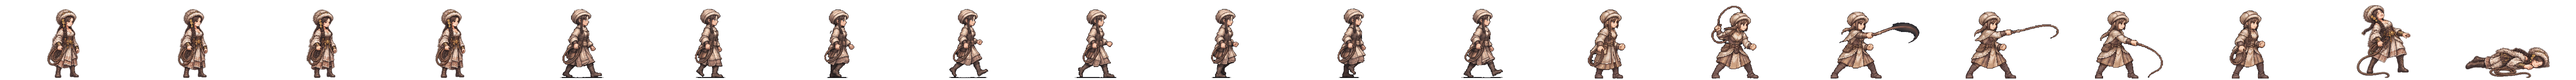
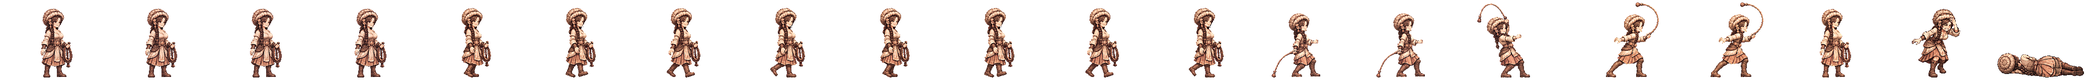
우가 누리 새 밧줄 띠를 게임에 넣음(휘두름 다시 받은 판: 반대 손 1~4/8 · 뒷발 ±1) · 칸 38 · 공격 칸 폭 288 · 걷기 뒤 절반을 앞 절반으로 · 파란 팔 이름 박기 판정 기록
Claude-Session: https://claude.ai/code/session_01TRiuN7s6aDfSnaHxrkctmU

diff --git a/src/realm/data/spritePx.ts b/src/realm/data/spritePx.ts
@@ -1,3 +1,3 @@
 /** public/realm/anim-px/manifest.json 의 사본 — tools/sprite-normalize.mjs 가 만든다 (손으로 고치지 말 것). 칸 [가로, 세로] · feet = 발 줄(칸 위에서 y) · bodyPx = 서 있는 몸 키 */
 import { expandManifest } from './sprite-manifest.ts'
-export const SPRITE_PX: Readonly<Record<string, { readonly cell: readonly [number, number]; readonly feet: number; readonly bodyPx: number; readonly kind: 'general' | 'soldier' | 'folk' | 'crowd'; readonly cells: number }>> = expandManifest<{ readonly cell: readonly [number, number]; readonly feet: number; readonly bodyPx: number; readonly kind: 'general' | 'soldier' | 'folk' | 'crowd'; readonly cells: number }>([{"cell":[166,128],"feet":126,"bodyPx":124,"kind":"soldier","cells":20},{"cell":[116,128],"feet":126,"bodyPx":117,"kind":"soldier","cells":20},{"cell":[127,128],"feet":126,"bodyPx":116,"kind":"soldier","cells":20},{"cell":[269,128],"feet":126,"bodyPx":126,"kind":"soldier","cells":20},{"cell":[503,128],"feet":126,"bodyPx":127,"kind":"soldier","cells":20},{"cell":[614,128],"feet":126,"bodyPx":126,"kind":"soldier","cells":20},{"cell":[200,160],"feet":156,"bodyPx":138,"kind":"general","cells":20},{"cell":[208,160],"feet":155,"bodyPx":138,"kind":"general","cells":20},{"cell":[208,160],"feet":154,"bodyPx":138,"kind":"general","cells":20},{"cell":[208,160],"feet":154,"bodyPx":135,"kind":"general","cells":20},{"cell":[184,160],"feet":156,"bodyPx":138,"kind":"general","cells":20},{"cell":[208,160],"feet":154,"bodyPx":136,"kind":"general","cells":20},{"cell":[208,160],"feet":156,"bodyPx":138,"kind":"general","cells":20},{"cell":[168,160],"feet":156,"bodyPx":124,"kind":"general","cells":20},{"cell":[216,160],"feet":156,"bodyPx":130,"kind":"general","cells":20},{"cell":[200,160],"feet":156,"bodyPx":116,"kind":"general","cells":20},{"cell":[192,160],"feet":156,"bodyPx":138,"kind":"general","cells":20},{"cell":[280,160],"feet":156,"bodyPx":138,"kind":"general","cells":20},{"cell":[232,160],"feet":156,"bodyPx":134,"kind":"general","cells":20},{"cell":[144,160],"feet":156,"bodyPx":70,"kind":"general","cells":20},{"cell":[208,160],"feet":156,"bodyPx":70,"kind":"general","cells":20},{"cell":[192,160],"feet":156,"bodyPx":70,"kind":"general","cells":20},{"cell":[240,160],"feet":155,"bodyPx":138,"kind":"general","cells":20},{"cell":[192,160],"feet":156,"bodyPx":128,"kind":"general","cells":20},{"cell":[232,160],"feet":156,"bodyPx":138,"kind":"general","cells":20},{"cell":[208,160],"feet":154,"bodyPx":137,"kind":"general","cells":20},{"cell":[208,160],"feet":154,"bodyPx":139,"kind":"general","cells":20},{"cell":[216,160],"feet":156,"bodyPx":138,"kind":"general","cells":20},{"cell":[208,160],"feet":156,"bodyPx":134,"kind":"general","cells":20},{"cell":[208,160],"feet":154,"bodyPx":130,"kind":"general","cells":20},{"cell":[248,160],"feet":156,"bodyPx":138,"kind":"general","cells":20},{"cell":[248,160],"feet":155,"bodyPx":138,"kind":"general","cells":20},{"cell":[192,160],"feet":155,"bodyPx":138,"kind":"general","cells":20},{"cell":[192,160],"feet":156,"bodyPx":124,"kind":"general","cells":20},{"cell":[208,160],"feet":154,"bodyPx":131,"kind":"general","cells":20},{"cell":[240,160],"feet":156,"bodyPx":138,"kind":"general","cells":20},{"cell":[232,160],"feet":156,"bodyPx":73,"kind":"general","cells":20},{"cell":[224,160],"feet":156,"bodyPx":138,"kind":"general","cells":20},{"cell":[224,160],"feet":156,"bodyPx":128,"kind":"general","cells":20},{"cell":[176,160],"feet":156,"bodyPx":129,"kind":"general","cells":20},{"cell":[232,160],"feet":155,"bodyPx":138,"kind":"general","cells":20},{"cell":[208,160],"feet":156,"bodyPx":132,"kind":"general","cells":20},{"cell":[184,160],"feet":156,"bodyPx":122,"kind":"general","cells":20},{"cell":[280,160],"feet":155,"bodyPx":133,"kind":"general","cells":20},{"cell":[176,160],"feet":156,"bodyPx":70,"kind":"general","cells":20},{"cell":[186,128],"feet":126,"bodyPx":127,"kind":"soldier","cells":20},{"cell":[298,128],"feet":126,"bodyPx":126,"kind":"soldier","cells":20},{"cell":[82,128],"feet":126,"bodyPx":114,"kind":"folk","cells":8},{"cell":[134,128],"feet":126,"bodyPx":119,"kind":"soldier","cells":20},{"cell":[380,128],"feet":126,"bodyPx":124,"kind":"soldier","cells":20},{"cell":[114,128],"feet":126,"bodyPx":115,"kind":"soldier","cells":20},{"cell":[122,128],"feet":126,"bodyPx":114,"kind":"soldier","cells":20},{"cell":[254,128],"feet":126,"bodyPx":128,"kind":"soldier","cells":20},{"cell":[438,128],"feet":126,"bodyPx":126,"kind":"soldier","cells":20},{"cell":[88,128],"feet":126,"bodyPx":113,"kind":"folk","cells":8},{"cell":[100,128],"feet":126,"bodyPx":115,"kind":"folk","cells":8},{"cell":[108,128],"feet":126,"bodyPx":115,"kind":"folk","cells":8},{"cell":[63,128],"feet":126,"bodyPx":113,"kind":"folk","cells":8},{"cell":[69,96],"feet":96,"bodyPx":96,"kind":"crowd","cells":1},{"cell":[54,96],"feet":96,"bodyPx":96,"kind":"crowd","cells":1},{"cell":[47,96],"feet":96,"bodyPx":96,"kind":"crowd","cells":1},{"cell":[49,96],"feet":96,"bodyPx":96,"kind":"crowd","cells":1},{"cell":[57,96],"feet":96,"bodyPx":96,"kind":"crowd","cells":1},{"cell":[55,96],"feet":96,"bodyPx":96,"kind":"crowd","cells":1},{"cell":[45,96],"feet":96,"bodyPx":96,"kind":"crowd","cells":1},{"cell":[53,96],"feet":96,"bodyPx":96,"kind":"crowd","cells":1},{"cell":[64,96],"feet":96,"bodyPx":96,"kind":"crowd","cells":1},{"cell":[264,160],"feet":156,"bodyPx":138,"kind":"general","cells":20},{"cell":[184,160],"feet":156,"bodyPx":124,"kind":"general","cells":20},{"cell":[256,160],"feet":156,"bodyPx":138,"kind":"general","cells":20},{"cell":[208,160],"feet":154,"bodyPx":134,"kind":"general","cells":20},{"cell":[224,160],"feet":156,"bodyPx":133,"kind":"general","cells":20},{"cell":[184,160],"feet":156,"bodyPx":137,"kind":"general","cells":20},{"cell":[176,160],"feet":156,"bodyPx":130,"kind":"general","cells":20},{"cell":[216,160],"feet":156,"bodyPx":134,"kind":"general","cells":20},{"cell":[216,160],"feet":156,"bodyPx":132,"kind":"general","cells":20},{"cell":[288,160],"feet":156,"bodyPx":138,"kind":"general","cells":20},{"cell":[192,160],"feet":156,"bodyPx":118,"kind":"general","cells":20},{"cell":[208,160],"feet":154,"bodyPx":132,"kind":"general","cells":20},{"cell":[208,160],"feet":154,"bodyPx":128,"kind":"general","cells":20},{"cell":[240,160],"feet":156,"bodyPx":128,"kind":"general","cells":20},{"cell":[184,160],"feet":156,"bodyPx":132,"kind":"general","cells":20},{"cell":[208,160],"feet":156,"bodyPx":123,"kind":"general","cells":20},{"cell":[192,160],"feet":156,"bodyPx":135,"kind":"general","cells":20},{"cell":[176,160],"feet":156,"bodyPx":116,"kind":"general","cells":20},{"cell":[272,160],"feet":156,"bodyPx":138,"kind":"general","cells":20},{"cell":[176,160],"feet":156,"bodyPx":138,"kind":"general","cells":20},{"cell":[176,160],"feet":156,"bodyPx":122,"kind":"general","cells":20},{"cell":[232,160],"feet":156,"bodyPx":127,"kind":"general","cells":20},{"cell":[184,160],"feet":156,"bodyPx":134,"kind":"general","cells":20},{"cell":[168,160],"feet":156,"bodyPx":138,"kind":"general","cells":20},{"cell":[176,160],"feet":156,"bodyPx":137,"kind":"general","cells":20},{"cell":[184,160],"feet":156,"bodyPx":133,"kind":"general","cells":20}],[["axe",0],["bandit-chief",1],["bandit-club",2],["boat",3],["bow",4],["crossbow",5],["gen-adogan",6],["gen-alpyeong",7],["gen-ara",8],["gen-areum",8],["gen-aryeong",9],["gen-bakdal",8],["gen-baram",8],["gen-bdanbi",10],["gen-beom",11],["gen-beombal",8],["gen-beomi",8],["gen-bira",8],["gen-biryu",12],["gen-budeul",8],["gen-byeol",8],["gen-daemusin",13],["gen-daeso",14],["gen-dallae2",8],["gen-dalli",8],["gen-damul",15],["gen-danbi",8],["gen-dangung",16],["gen-darae",9],["gen-dokmudeom",8],["gen-duman",17],["gen-eomni",8],["gen-eureum",18],["gen-g-bow",19],["gen-g-spear",20],["gen-g-sword",21],["gen-gaennae",8],["gen-gamsil",22],["gen-gaon",9],["gen-geota",12],["gen-geumbawi",10],["gen-geumha",23],["gen-goeun",8],["gen-gom",8],["gen-gomok",12],["gen-gureum",8],["gen-guryema",16],["gen-gwaeyu",24],["gen-haebi",8],["gen-haedal",6],["gen-haesol",8],["gen-halla",25],["gen-heo",8],["gen-hneoul",26],["gen-hogong",27],["gen-hojin",12],["gen-horselord",28],["gen-hwalmi",29],["gen-hyeokgeose",16],["gen-hyeopbo",6],["gen-irang",8],["gen-jibaekho",30],["gen-jinha",31],["gen-jita",32],["gen-jumong",33],["gen-keundol",7],["gen-maehwa",34],["gen-maenun",16],["gen-malgalgi",8],["gen-mari",35],["gen-maro",30],["gen-maryeo",12],["gen-mdallae",8],["gen-mir",8],["gen-mount",36],["gen-mulbeom",25],["gen-mulsae",25],["gen-musoe",27],["gen-noeul",8],["gen-nuri",8],["gen-ocheongan",37],["gen-odi",8],["gen-odogan",6],["gen-ogan",16],["gen-oi",38],["gen-olddaeso",18],["gen-onjo",39],["gen-pidogan",12],["gen-sagong",26],["gen-sdallae",8],["gen-sincheongan",8],["gen-singwigan",27],["gen-sinneoul",8],["gen-sobeol",40],["gen-soebi",8],["gen-soebo",41],["gen-soenun",26],["gen-sogeumbi",25],["gen-songbi",8],["gen-songyang",42],["gen-sori",8],["gen-soseono",43],["gen-suro",16],["gen-tahae",6],["gen-tneoul",8],["gen-w-bow",19],["gen-w-spear",44],["gen-waechief",12],["gen-wan",27],["gen-yeodogan",12],["gen-yucheongan",8],["gen-yusugan",30],["horse",45],["marine",46],["migrant",47],["militia",48],["pike",49],["pirate-captain",50],["pirate-sword",51],["shield",52],["spear",53],["villager-builder",54],["villager-farmer",55],["villager-porter",56],["villager-woman",57],["crowd-b1",58],["crowd-b2",59],["crowd-b3",60],["crowd-b4",61],["crowd-b5",62],["crowd-b6",63],["crowd-f1",58],["crowd-f2",63],["crowd-f3",64],["crowd-f4",65],["crowd-f5",58],["crowd-f6",66],["gen-dalbit",12],["gen-base-g-07-drunk-warrior",16],["gen-base-g-40-anya-adan",12],["gen-base-w-13-young-archer",8],["gen-base-g-03-sea-trader",35],["gen-base-w-10-pirate-captain",26],["gen-base-w-64-miri-dallae",26],["gen-base-g-41-goja-bau",35],["gen-base-g-42-dokro-garam",67],["gen-base-g-09-farmer-conscript",27],["gen-base-w-02-goguryeo-lady",8],["gen-base-w-17-mahan-pearl-diver",8],["gen-base-g-17-saro-isageum",41],["gen-base-g-18-daegaya-king",68],["gen-base-g-35-dabeol-dalgu",12],["gen-base-g-19-sabeol-veteran",27],["gen-base-w-23-usisan-whale-queen",8],["gen-base-g-36-gammun-gamdol",37],["gen-base-g-20-samul-sea-lord",69],["gen-base-g-37-eumjeup-jeup",10],["gen-base-g-38-chopal-palmae",16],["gen-base-w-75-daegaya-soemoe",8],["gen-base-g-45-dabeol-deulgae",10],["gen-base-g-04-jinhan-giant",12],["gen-base-g-08-veteran",12],["gen-base-w-18-jinhan-salt-widow",8],["gen-base-w-12-court-dancer",70],["gen-base-w-83-gyeonji-beodeul",71],["gen-base-w-05-baekje-queen",9],["gen-base-w-21-baekje-court-dancer",10],["gen-base-g-01-master-smith",72],["gen-base-g-93-jomun-solgae",73],["gen-base-g-57-bihwa-neup",35],["gen-base-w-72-eumjeup-beol",8],["gen-base-w-102-garak-dana",26],["gen-base-g-68-baekje-onnuri",12],["gen-base-w-27-mokji-jinha",25],["gen-base-g-22-ungcheon-gomnae",6],["gen-base-g-23-sangdang-soedal",12],["gen-base-g-24-wansan-onsan",6],["gen-base-g-25-balla-keunmoe",27],["gen-base-g-61-heomcheuk-bawi",27],["gen-base-g-88-wander-soeul",37],["gen-base-w-14-feast-spy",8],["gen-base-g-12-silla-youth",74],["gen-base-w-08-mahan-warrior",8],["gen-base-g-62-beonye-hanul",35],["gen-base-g-63-heomcheuk-beogeum",12],["gen-base-g-84-wander-seoneul",12],["gen-base-w-50-siljik-mulga",27],["gen-base-g-46-uga-nureongso",27],["gen-base-w-80-usan-gangchi",26],["gen-base-g-47-guga-sanyanggae",27],["gen-base-w-76-gampyeong-baetsagong",8],["gen-base-g-05-mahan-chieftain",75],["gen-base-g-58-usan-uhae",12],["gen-base-g-27-maek-maekdol",12],["gen-base-w-53-hwanna-gabi",26],["gen-base-w-29-golpo-janmul",8],["gen-base-g-53-baekje-haeru",6],["gen-base-w-71-yeonna-neoul",8],["gen-base-w-79-yangmaek-solmae",8],["gen-base-w-34-chopal-deulme",8],["gen-base-g-44-maga-malgup",76],["gen-base-w-31-dabeol-dalbit",26],["gen-base-g-51-biryuna-mulgyeol",37],["gen-base-g-48-gwanna-musoe",12],["gen-base-g-32-uga-sodu",24],["gen-base-g-49-goguryeo-sona",77],["gen-base-g-30-gwanna-soemoe",37],["gen-base-g-52-tamna-oreum",10],["gen-base-g-29-yeonna-myeongsol",33],["gen-base-w-56-dongokjeo-sogeum",70],["gen-base-g-54-mokji-mahan",24],["gen-base-g-33-jeoga-metdol",16],["gen-base-w-36-baekje-maena",8],["gen-base-w-38-sangdang-bulmae",26],["gen-base-w-39-gosaburi-galmae",8],["gen-base-w-40-mujin-munui",78],["gen-base-w-41-hwanna-beodeul",79],["gen-base-w-43-uga-nuri",69],["gen-base-w-45-tamna-oreumbi",10],["gen-base-g-60-golbeol-golgae",10],["gen-base-g-61-apdok-ap",27],["gen-base-g-62-gammun-gamnamu",6],["gen-base-g-63-chopal-yeoul",30],["gen-base-g-64-michuhol-sogeumkkun",35],["gen-base-g-65-sangdang-soemangchi",37],["gen-base-g-66-geonma-malbalgup",80],["gen-base-g-67-gosaburi-buri",81],["gen-base-g-68-mujin-bitgoeul",10],["gen-base-g-69-goryong-yong",37],["gen-base-g-70-siljik-pado",35],["gen-base-w-81-byeokjin-byeolbit",8],["gen-base-w-46-geonma-maru",8],["gen-base-w-48-mujin-mudeung",8],["gen-base-g-26-gampyeong-gaetbeol",24],["gen-base-g-60-eupcha-hangyeol",82],["gen-base-g-15-shaman-man",27],["gen-base-g-85-wander-ure",30],["gen-base-g-43-hwanna-amnok",12],["gen-base-g-50-bullae-gwaha",83],["gen-base-g-55-saro-bakdal",12],["gen-base-g-56-haseulla-gwahama",6],["gen-base-w-06-buyeo-huntress",25],["gen-base-w-22-dongye-tiger-huntress",8],["gen-base-w-25-bihwa-priestess",8],["gen-base-w-24-apdok-queen",8],["gen-base-w-61-iseo-sinae",8],["gen-base-w-26-iseo-tomboy-general",8],["gen-base-g-59-yangmaek-maekson",84],["gen-aw1-haebi",37],["gen-aw1-soseono",85],["gen-aw1-gamsil",10],["gen-aw1-mir",86],["gen-aw1-dangung",6],["gen-aw1-ara",37],["gen-aw1-jumong",87],["gen-aw1-onjo",88],["gen-aw1-base-w-83-gyeonji-beodeul",16],["gen-aw1-heo",67],["gen-aw1-base-g-38-chopal-palmae",6],["gen-aw1-base-w-25-bihwa-priestess",89],["gen-aw1-sori",90],["gen-aw1-gomok",6],["gen-aw1-irang",16],["gen-aw1-budeul",90],["gen-aw1-gom",35],["gen-aw1-sdallae",6],["gen-aw1-base-w-13-young-archer",6],["gen-aw1-base-w-36-baekje-maena",91],["gen-aw1-base-g-09-farmer-conscript",67],["gen-aw1-base-w-02-goguryeo-lady",92],["gen-aw1-haedal",10],["gen-aw1-hogong",6],["gen-aw1-maehwa",86],["gen-aw1-base-w-06-buyeo-huntress",24],["gen-aw1-base-w-08-mahan-warrior",37],["gen-aw1-base-w-29-golpo-janmul",37],["gen-aw1-base-w-31-dabeol-dalbit",16],["gen-aw1-base-w-38-sangdang-bulmae",90],["gen-aw1-bira",27],["gen-aw1-base-w-53-hwanna-gabi",90],["gen-aw1-base-w-56-dongokjeo-sogeum",86],["gen-aw1-base-w-72-eumjeup-beol",16],["gen-aw1-bdanbi",90],["gen-aw1-beom",10],["gen-aw1-beombal",10],["gen-aw1-byeol",16],["gen-aw1-dalli",86],["gen-aw1-malgalgi",30],["gen-aw1-sincheongan",27]])
+export const SPRITE_PX: Readonly<Record<string, { readonly cell: readonly [number, number]; readonly feet: number; readonly bodyPx: number; readonly kind: 'general' | 'soldier' | 'folk' | 'crowd'; readonly cells: number }>> = expandManifest<{ readonly cell: readonly [number, number]; readonly feet: number; readonly bodyPx: number; readonly kind: 'general' | 'soldier' | 'folk' | 'crowd'; readonly cells: number }>([{"cell":[166,128],"feet":126,"bodyPx":124,"kind":"soldier","cells":20},{"cell":[116,128],"feet":126,"bodyPx":117,"kind":"soldier","cells":20},{"cell":[127,128],"feet":126,"bodyPx":116,"kind":"soldier","cells":20},{"cell":[269,128],"feet":126,"bodyPx":126,"kind":"soldier","cells":20},{"cell":[503,128],"feet":126,"bodyPx":127,"kind":"soldier","cells":20},{"cell":[614,128],"feet":126,"bodyPx":126,"kind":"soldier","cells":20},{"cell":[200,160],"feet":156,"bodyPx":138,"kind":"general","cells":20},{"cell":[208,160],"feet":155,"bodyPx":138,"kind":"general","cells":20},{"cell":[208,160],"feet":154,"bodyPx":138,"kind":"general","cells":20},{"cell":[208,160],"feet":154,"bodyPx":135,"kind":"general","cells":20},{"cell":[184,160],"feet":156,"bodyPx":138,"kind":"general","cells":20},{"cell":[208,160],"feet":154,"bodyPx":136,"kind":"general","cells":20},{"cell":[208,160],"feet":156,"bodyPx":138,"kind":"general","cells":20},{"cell":[168,160],"feet":156,"bodyPx":124,"kind":"general","cells":20},{"cell":[216,160],"feet":156,"bodyPx":130,"kind":"general","cells":20},{"cell":[200,160],"feet":156,"bodyPx":116,"kind":"general","cells":20},{"cell":[192,160],"feet":156,"bodyPx":138,"kind":"general","cells":20},{"cell":[280,160],"feet":156,"bodyPx":138,"kind":"general","cells":20},{"cell":[232,160],"feet":156,"bodyPx":134,"kind":"general","cells":20},{"cell":[144,160],"feet":156,"bodyPx":70,"kind":"general","cells":20},{"cell":[208,160],"feet":156,"bodyPx":70,"kind":"general","cells":20},{"cell":[192,160],"feet":156,"bodyPx":70,"kind":"general","cells":20},{"cell":[240,160],"feet":155,"bodyPx":138,"kind":"general","cells":20},{"cell":[192,160],"feet":156,"bodyPx":128,"kind":"general","cells":20},{"cell":[232,160],"feet":156,"bodyPx":138,"kind":"general","cells":20},{"cell":[208,160],"feet":154,"bodyPx":137,"kind":"general","cells":20},{"cell":[208,160],"feet":154,"bodyPx":139,"kind":"general","cells":20},{"cell":[216,160],"feet":156,"bodyPx":138,"kind":"general","cells":20},{"cell":[208,160],"feet":156,"bodyPx":134,"kind":"general","cells":20},{"cell":[208,160],"feet":154,"bodyPx":130,"kind":"general","cells":20},{"cell":[248,160],"feet":156,"bodyPx":138,"kind":"general","cells":20},{"cell":[248,160],"feet":155,"bodyPx":138,"kind":"general","cells":20},{"cell":[192,160],"feet":155,"bodyPx":138,"kind":"general","cells":20},{"cell":[192,160],"feet":156,"bodyPx":124,"kind":"general","cells":20},{"cell":[208,160],"feet":154,"bodyPx":131,"kind":"general","cells":20},{"cell":[240,160],"feet":156,"bodyPx":138,"kind":"general","cells":20},{"cell":[232,160],"feet":156,"bodyPx":73,"kind":"general","cells":20},{"cell":[224,160],"feet":156,"bodyPx":138,"kind":"general","cells":20},{"cell":[224,160],"feet":156,"bodyPx":128,"kind":"general","cells":20},{"cell":[176,160],"feet":156,"bodyPx":129,"kind":"general","cells":20},{"cell":[232,160],"feet":155,"bodyPx":138,"kind":"general","cells":20},{"cell":[208,160],"feet":156,"bodyPx":132,"kind":"general","cells":20},{"cell":[184,160],"feet":156,"bodyPx":122,"kind":"general","cells":20},{"cell":[280,160],"feet":155,"bodyPx":133,"kind":"general","cells":20},{"cell":[176,160],"feet":156,"bodyPx":70,"kind":"general","cells":20},{"cell":[186,128],"feet":126,"bodyPx":127,"kind":"soldier","cells":20},{"cell":[298,128],"feet":126,"bodyPx":126,"kind":"soldier","cells":20},{"cell":[82,128],"feet":126,"bodyPx":114,"kind":"folk","cells":8},{"cell":[134,128],"feet":126,"bodyPx":119,"kind":"soldier","cells":20},{"cell":[380,128],"feet":126,"bodyPx":124,"kind":"soldier","cells":20},{"cell":[114,128],"feet":126,"bodyPx":115,"kind":"soldier","cells":20},{"cell":[122,128],"feet":126,"bodyPx":114,"kind":"soldier","cells":20},{"cell":[254,128],"feet":126,"bodyPx":128,"kind":"soldier","cells":20},{"cell":[438,128],"feet":126,"bodyPx":126,"kind":"soldier","cells":20},{"cell":[88,128],"feet":126,"bodyPx":113,"kind":"folk","cells":8},{"cell":[100,128],"feet":126,"bodyPx":115,"kind":"folk","cells":8},{"cell":[108,128],"feet":126,"bodyPx":115,"kind":"folk","cells":8},{"cell":[63,128],"feet":126,"bodyPx":113,"kind":"folk","cells":8},{"cell":[69,96],"feet":96,"bodyPx":96,"kind":"crowd","cells":1},{"cell":[54,96],"feet":96,"bodyPx":96,"kind":"crowd","cells":1},{"cell":[47,96],"feet":96,"bodyPx":96,"kind":"crowd","cells":1},{"cell":[49,96],"feet":96,"bodyPx":96,"kind":"crowd","cells":1},{"cell":[57,96],"feet":96,"bodyPx":96,"kind":"crowd","cells":1},{"cell":[55,96],"feet":96,"bodyPx":96,"kind":"crowd","cells":1},{"cell":[45,96],"feet":96,"bodyPx":96,"kind":"crowd","cells":1},{"cell":[53,96],"feet":96,"bodyPx":96,"kind":"crowd","cells":1},{"cell":[64,96],"feet":96,"bodyPx":96,"kind":"crowd","cells":1},{"cell":[264,160],"feet":156,"bodyPx":138,"kind":"general","cells":20},{"cell":[184,160],"feet":156,"bodyPx":124,"kind":"general","cells":20},{"cell":[256,160],"feet":156,"bodyPx":138,"kind":"general","cells":20},{"cell":[208,160],"feet":154,"bodyPx":134,"kind":"general","cells":20},{"cell":[224,160],"feet":156,"bodyPx":133,"kind":"general","cells":20},{"cell":[184,160],"feet":156,"bodyPx":137,"kind":"general","cells":20},{"cell":[176,160],"feet":156,"bodyPx":130,"kind":"general","cells":20},{"cell":[216,160],"feet":156,"bodyPx":134,"kind":"general","cells":20},{"cell":[216,160],"feet":156,"bodyPx":132,"kind":"general","cells":20},{"cell":[288,160],"feet":156,"bodyPx":138,"kind":"general","cells":20},{"cell":[192,160],"feet":156,"bodyPx":118,"kind":"general","cells":20},{"cell":[208,160],"feet":154,"bodyPx":132,"kind":"general","cells":20},{"cell":[208,160],"feet":154,"bodyPx":128,"kind":"general","cells":20},{"cell":[240,160],"feet":156,"bodyPx":128,"kind":"general","cells":20},{"cell":[184,160],"feet":156,"bodyPx":132,"kind":"general","cells":20},{"cell":[208,160],"feet":156,"bodyPx":123,"kind":"general","cells":20},{"cell":[192,160],"feet":156,"bodyPx":135,"kind":"general","cells":20},{"cell":[176,160],"feet":156,"bodyPx":116,"kind":"general","cells":20},{"cell":[272,160],"feet":156,"bodyPx":138,"kind":"general","cells":20},{"cell":[176,160],"feet":156,"bodyPx":138,"kind":"general","cells":20},{"cell":[176,160],"feet":156,"bodyPx":122,"kind":"general","cells":20},{"cell":[232,160],"feet":156,"bodyPx":127,"kind":"general","cells":20},{"cell":[184,160],"feet":156,"bodyPx":134,"kind":"general","cells":20},{"cell":[168,160],"feet":156,"bodyPx":138,"kind":"general","cells":20},{"cell":[176,160],"feet":156,"bodyPx":137,"kind":"general","cells":20},{"cell":[184,160],"feet":156,"bodyPx":133,"kind":"general","cells":20}],[["axe",0],["bandit-chief",1],["bandit-club",2],["boat",3],["bow",4],["crossbow",5],["gen-adogan",6],["gen-alpyeong",7],["gen-ara",8],["gen-areum",8],["gen-aryeong",9],["gen-bakdal",8],["gen-baram",8],["gen-bdanbi",10],["gen-beom",11],["gen-beombal",8],["gen-beomi",8],["gen-bira",8],["gen-biryu",12],["gen-budeul",8],["gen-byeol",8],["gen-daemusin",13],["gen-daeso",14],["gen-dallae2",8],["gen-dalli",8],["gen-damul",15],["gen-danbi",8],["gen-dangung",16],["gen-darae",9],["gen-dokmudeom",8],["gen-duman",17],["gen-eomni",8],["gen-eureum",18],["gen-g-bow",19],["gen-g-spear",20],["gen-g-sword",21],["gen-gaennae",8],["gen-gamsil",22],["gen-gaon",9],["gen-geota",12],["gen-geumbawi",10],["gen-geumha",23],["gen-goeun",8],["gen-gom",8],["gen-gomok",12],["gen-gureum",8],["gen-guryema",16],["gen-gwaeyu",24],["gen-haebi",8],["gen-haedal",6],["gen-haesol",8],["gen-halla",25],["gen-heo",8],["gen-hneoul",26],["gen-hogong",27],["gen-hojin",12],["gen-horselord",28],["gen-hwalmi",29],["gen-hyeokgeose",16],["gen-hyeopbo",6],["gen-irang",8],["gen-jibaekho",30],["gen-jinha",31],["gen-jita",32],["gen-jumong",33],["gen-keundol",7],["gen-maehwa",34],["gen-maenun",16],["gen-malgalgi",8],["gen-mari",35],["gen-maro",30],["gen-maryeo",12],["gen-mdallae",8],["gen-mir",8],["gen-mount",36],["gen-mulbeom",25],["gen-mulsae",25],["gen-musoe",27],["gen-noeul",8],["gen-nuri",8],["gen-ocheongan",37],["gen-odi",8],["gen-odogan",6],["gen-ogan",16],["gen-oi",38],["gen-olddaeso",18],["gen-onjo",39],["gen-pidogan",12],["gen-sagong",26],["gen-sdallae",8],["gen-sincheongan",8],["gen-singwigan",27],["gen-sinneoul",8],["gen-sobeol",40],["gen-soebi",8],["gen-soebo",41],["gen-soenun",26],["gen-sogeumbi",25],["gen-songbi",8],["gen-songyang",42],["gen-sori",8],["gen-soseono",43],["gen-suro",16],["gen-tahae",6],["gen-tneoul",8],["gen-w-bow",19],["gen-w-spear",44],["gen-waechief",12],["gen-wan",27],["gen-yeodogan",12],["gen-yucheongan",8],["gen-yusugan",30],["horse",45],["marine",46],["migrant",47],["militia",48],["pike",49],["pirate-captain",50],["pirate-sword",51],["shield",52],["spear",53],["villager-builder",54],["villager-farmer",55],["villager-porter",56],["villager-woman",57],["crowd-b1",58],["crowd-b2",59],["crowd-b3",60],["crowd-b4",61],["crowd-b5",62],["crowd-b6",63],["crowd-f1",58],["crowd-f2",63],["crowd-f3",64],["crowd-f4",65],["crowd-f5",58],["crowd-f6",66],["gen-dalbit",12],["gen-base-g-07-drunk-warrior",16],["gen-base-g-40-anya-adan",12],["gen-base-w-13-young-archer",8],["gen-base-g-03-sea-trader",35],["gen-base-w-10-pirate-captain",26],["gen-base-w-64-miri-dallae",26],["gen-base-g-41-goja-bau",35],["gen-base-g-42-dokro-garam",67],["gen-base-g-09-farmer-conscript",27],["gen-base-w-02-goguryeo-lady",8],["gen-base-w-17-mahan-pearl-diver",8],["gen-base-g-17-saro-isageum",41],["gen-base-g-18-daegaya-king",68],["gen-base-g-35-dabeol-dalgu",12],["gen-base-g-19-sabeol-veteran",27],["gen-base-w-23-usisan-whale-queen",8],["gen-base-g-36-gammun-gamdol",37],["gen-base-g-20-samul-sea-lord",69],["gen-base-g-37-eumjeup-jeup",10],["gen-base-g-38-chopal-palmae",16],["gen-base-w-75-daegaya-soemoe",8],["gen-base-g-45-dabeol-deulgae",10],["gen-base-g-04-jinhan-giant",12],["gen-base-g-08-veteran",12],["gen-base-w-18-jinhan-salt-widow",8],["gen-base-w-12-court-dancer",70],["gen-base-w-83-gyeonji-beodeul",71],["gen-base-w-05-baekje-queen",9],["gen-base-w-21-baekje-court-dancer",10],["gen-base-g-01-master-smith",72],["gen-base-g-93-jomun-solgae",73],["gen-base-g-57-bihwa-neup",35],["gen-base-w-72-eumjeup-beol",8],["gen-base-w-102-garak-dana",26],["gen-base-g-68-baekje-onnuri",12],["gen-base-w-27-mokji-jinha",25],["gen-base-g-22-ungcheon-gomnae",6],["gen-base-g-23-sangdang-soedal",12],["gen-base-g-24-wansan-onsan",6],["gen-base-g-25-balla-keunmoe",27],["gen-base-g-61-heomcheuk-bawi",27],["gen-base-g-88-wander-soeul",37],["gen-base-w-14-feast-spy",8],["gen-base-g-12-silla-youth",74],["gen-base-w-08-mahan-warrior",8],["gen-base-g-62-beonye-hanul",35],["gen-base-g-63-heomcheuk-beogeum",12],["gen-base-g-84-wander-seoneul",12],["gen-base-w-50-siljik-mulga",27],["gen-base-g-46-uga-nureongso",27],["gen-base-w-80-usan-gangchi",26],["gen-base-g-47-guga-sanyanggae",27],["gen-base-w-76-gampyeong-baetsagong",8],["gen-base-g-05-mahan-chieftain",75],["gen-base-g-58-usan-uhae",12],["gen-base-g-27-maek-maekdol",12],["gen-base-w-53-hwanna-gabi",26],["gen-base-w-29-golpo-janmul",8],["gen-base-g-53-baekje-haeru",6],["gen-base-w-71-yeonna-neoul",8],["gen-base-w-79-yangmaek-solmae",8],["gen-base-w-34-chopal-deulme",8],["gen-base-g-44-maga-malgup",76],["gen-base-w-31-dabeol-dalbit",26],["gen-base-g-51-biryuna-mulgyeol",37],["gen-base-g-48-gwanna-musoe",12],["gen-base-g-32-uga-sodu",24],["gen-base-g-49-goguryeo-sona",77],["gen-base-g-30-gwanna-soemoe",37],["gen-base-g-52-tamna-oreum",10],["gen-base-g-29-yeonna-myeongsol",33],["gen-base-w-56-dongokjeo-sogeum",70],["gen-base-g-54-mokji-mahan",24],["gen-base-g-33-jeoga-metdol",16],["gen-base-w-36-baekje-maena",8],["gen-base-w-38-sangdang-bulmae",26],["gen-base-w-39-gosaburi-galmae",8],["gen-base-w-40-mujin-munui",78],["gen-base-w-41-hwanna-beodeul",79],["gen-base-w-43-uga-nuri",8],["gen-base-w-45-tamna-oreumbi",10],["gen-base-g-60-golbeol-golgae",10],["gen-base-g-61-apdok-ap",27],["gen-base-g-62-gammun-gamnamu",6],["gen-base-g-63-chopal-yeoul",30],["gen-base-g-64-michuhol-sogeumkkun",35],["gen-base-g-65-sangdang-soemangchi",37],["gen-base-g-66-geonma-malbalgup",80],["gen-base-g-67-gosaburi-buri",81],["gen-base-g-68-mujin-bitgoeul",10],["gen-base-g-69-goryong-yong",37],["gen-base-g-70-siljik-pado",35],["gen-base-w-81-byeokjin-byeolbit",8],["gen-base-w-46-geonma-maru",8],["gen-base-w-48-mujin-mudeung",8],["gen-base-g-26-gampyeong-gaetbeol",24],["gen-base-g-60-eupcha-hangyeol",82],["gen-base-g-15-shaman-man",27],["gen-base-g-85-wander-ure",30],["gen-base-g-43-hwanna-amnok",12],["gen-base-g-50-bullae-gwaha",83],["gen-base-g-55-saro-bakdal",12],["gen-base-g-56-haseulla-gwahama",6],["gen-base-w-06-buyeo-huntress",25],["gen-base-w-22-dongye-tiger-huntress",8],["gen-base-w-25-bihwa-priestess",8],["gen-base-w-24-apdok-queen",8],["gen-base-w-61-iseo-sinae",8],["gen-base-w-26-iseo-tomboy-general",8],["gen-base-g-59-yangmaek-maekson",84],["gen-aw1-haebi",37],["gen-aw1-soseono",85],["gen-aw1-gamsil",10],["gen-aw1-mir",86],["gen-aw1-dangung",6],["gen-aw1-ara",37],["gen-aw1-jumong",87],["gen-aw1-onjo",88],["gen-aw1-base-w-83-gyeonji-beodeul",16],["gen-aw1-heo",67],["gen-aw1-base-g-38-chopal-palmae",6],["gen-aw1-base-w-25-bihwa-priestess",89],["gen-aw1-sori",90],["gen-aw1-gomok",6],["gen-aw1-irang",16],["gen-aw1-budeul",90],["gen-aw1-gom",35],["gen-aw1-sdallae",6],["gen-aw1-base-w-13-young-archer",6],["gen-aw1-base-w-36-baekje-maena",91],["gen-aw1-base-g-09-farmer-conscript",67],["gen-aw1-base-w-02-goguryeo-lady",92],["gen-aw1-haedal",10],["gen-aw1-hogong",6],["gen-aw1-maehwa",86],["gen-aw1-base-w-06-buyeo-huntress",24],["gen-aw1-base-w-08-mahan-warrior",37],["gen-aw1-base-w-29-golpo-janmul",37],["gen-aw1-base-w-31-dabeol-dalbit",16],["gen-aw1-base-w-38-sangdang-bulmae",90],["gen-aw1-bira",27],["gen-aw1-base-w-53-hwanna-gabi",90],["gen-aw1-base-w-56-dongokjeo-sogeum",86],["gen-aw1-base-w-72-eumjeup-beol",16],["gen-aw1-bdanbi",90],["gen-aw1-beom",10],["gen-aw1-beombal",10],["gen-aw1-byeol",16],["gen-aw1-dalli",86],["gen-aw1-malgalgi",30],["gen-aw1-sincheongan",27]])

diff --git a/src/duel/view.ts b/src/duel/view.ts
@@ -100,7 +100,7 @@ const crowdFront = [1, 2, 3, 4, 5, 6].map((i) => img(`realm/duel/crowd/b${i}.png
 const crowdReady = (set: HTMLImageElement[]): boolean => set.every((im) => im.complete && im.naturalWidth > 0)
 const pxMode = cfg.px !== false && params.get('px') !== '0'
 /** 겨루기 전용 옛 띠(duel/sprites) 대신 열전과 같은 도트 띠(anim-px)를 쓰는 장수 — 두 판에서 같은 모습 · 서기 계획·쓰러지는 칸도 같다 (11-23 범 · 매화 · 달빛 · 11-24 해비 · 아룸) */
-const PX_DUEL: ReadonlySet<string> = new Set(['beom', 'maehwa', 'base-w-31-dabeol-dalbit', 'haebi', 'areum', 'base-w-13-young-archer', 'base-w-10-pirate-captain', 'base-w-17-mahan-pearl-diver', 'base-w-06-buyeo-huntress', 'base-w-64-miri-dallae', 'ara', 'base-w-22-dongye-tiger-huntress', 'noeul', 'sagong', 'sinneoul', 'heo', 'base-w-08-mahan-warrior', 'base-w-23-usisan-whale-queen', 'base-w-26-iseo-tomboy-general', 'base-w-72-eumjeup-beol', 'tneoul', 'odi', 'base-w-76-gampyeong-baetsagong', 'base-w-34-chopal-deulme', 'base-w-102-garak-dana', 'base-w-36-baekje-maena', 'base-w-56-dongokjeo-sogeum', 'budeul', 'base-w-53-hwanna-gabi', 'base-w-18-jinhan-salt-widow', 'beombal', 'irang', 'sogeumbi', 'baram', 'byeol', 'base-w-71-yeonna-neoul', 'base-w-39-gosaburi-galmae', 'base-w-41-hwanna-beodeul', 'base-w-79-yangmaek-solmae', 'base-w-46-geonma-maru', 'base-w-48-mujin-mudeung', 'base-w-80-usan-gangchi', 'base-w-81-byeokjin-byeolbit', 'beomi', 'danbi', 'dalli', 'gureum', 'haesol', 'soenun', 'eomni', 'mulbeom', 'mulsae', 'bakdal', 'darae', 'sori', 'base-w-12-court-dancer', 'hwalmi', 'gaennae', 'dokmudeom', 'base-w-14-feast-spy', 'base-w-25-bihwa-priestess', 'sincheongan', 'base-w-40-mujin-munui', 'halla', 'yucheongan', 'base-w-02-goguryeo-lady', 'gaon', 'base-w-24-apdok-queen', 'base-w-61-iseo-sinae', 'goeun', 'base-w-05-baekje-queen', 'mdallae', 'nuri', 'base-w-75-daegaya-soemoe', 'soebi', 'base-w-38-sangdang-bulmae', 'gom', 'songbi', 'malgalgi', 'dallae2', 'hneoul', 'sdallae', 'mir', 'aryeong', 'base-w-29-golpo-janmul', 'bira', 'base-w-27-mokji-jinha'])
+const PX_DUEL: ReadonlySet<string> = new Set(['beom', 'maehwa', 'base-w-31-dabeol-dalbit', 'haebi', 'areum', 'base-w-13-young-archer', 'base-w-10-pirate-captain', 'base-w-17-mahan-pearl-diver', 'base-w-06-buyeo-huntress', 'base-w-64-miri-dallae', 'ara', 'base-w-22-dongye-tiger-huntress', 'noeul', 'sagong', 'sinneoul', 'heo', 'base-w-08-mahan-warrior', 'base-w-23-usisan-whale-queen', 'base-w-26-iseo-tomboy-general', 'base-w-72-eumjeup-beol', 'tneoul', 'odi', 'base-w-76-gampyeong-baetsagong', 'base-w-34-chopal-deulme', 'base-w-102-garak-dana', 'base-w-36-baekje-maena', 'base-w-56-dongokjeo-sogeum', 'budeul', 'base-w-53-hwanna-gabi', 'base-w-18-jinhan-salt-widow', 'beombal', 'irang', 'sogeumbi', 'baram', 'byeol', 'base-w-71-yeonna-neoul', 'base-w-39-gosaburi-galmae', 'base-w-41-hwanna-beodeul', 'base-w-79-yangmaek-solmae', 'base-w-46-geonma-maru', 'base-w-48-mujin-mudeung', 'base-w-80-usan-gangchi', 'base-w-81-byeokjin-byeolbit', 'beomi', 'danbi', 'dalli', 'gureum', 'haesol', 'soenun', 'eomni', 'mulbeom', 'mulsae', 'bakdal', 'darae', 'sori', 'base-w-12-court-dancer', 'hwalmi', 'gaennae', 'dokmudeom', 'base-w-14-feast-spy', 'base-w-25-bihwa-priestess', 'sincheongan', 'base-w-40-mujin-munui', 'halla', 'yucheongan', 'base-w-02-goguryeo-lady', 'gaon', 'base-w-24-apdok-queen', 'base-w-61-iseo-sinae', 'goeun', 'base-w-05-baekje-queen', 'mdallae', 'nuri', 'base-w-75-daegaya-soemoe', 'soebi', 'base-w-38-sangdang-bulmae', 'gom', 'songbi', 'malgalgi', 'dallae2', 'hneoul', 'sdallae', 'mir', 'aryeong', 'base-w-29-golpo-janmul', 'bira', 'base-w-27-mokji-jinha', 'base-w-43-uga-nuri'])
 /** 띠 그림 — 기본은 anim-px(도트 규격) 먼저, 없으면 옛 띠로 (img 의 onerror 가 갈아 끼운다) */
 const strip = (s: string): HTMLImageElement => pxMode
   ? DUEL_ATLASES[s] !== undefined && !PX_DUEL.has(s) ? img(`realm/duel/sprites/gen-${s}.png`, `realm/anim-px/gen-${s}.png`)

diff --git a/src/tune/params.ts b/src/tune/params.ts
@@ -1563,6 +1563,7 @@ export const HAEBI_IDLE = {
     'base-w-29-golpo-janmul': { cells: 38, base: [0, 1], hold: 2.4, fall: [18, 20, 21, 19], quirk: [22, 23, 24, 25], quirkTimes: [.3, .32, .4, .28], attack: { cells: [26, 27, 28, 29, 30, 31, 32, 33], times: [.09, .08, .11, .05, .15, .07, .08, .12], hit: 4 }, hurt: [34, 35], rise: [36, 37], xGeom: { h: 224, root: 92, foot: 216 } },
     bira: { cells: 38, base: [0, 1], hold: 2.4, fall: [18, 20, 21, 19], quirk: [22, 23, 24, 25], quirkTimes: [.3, .32, .4, .28], attack: { cells: [26, 27, 28, 29, 30, 31, 32, 33], times: [.09, .08, .22, .05, .15, .07, .08, .12], hit: 4 }, hurt: [34, 35], rise: [36, 37], xGeom: { h: 224, root: 92, foot: 216 } },
     'base-w-27-mokji-jinha': { cells: 38, base: [0, 1], hold: 2.4, fall: [18, 20, 21, 19], quirk: [22, 23, 24, 25], quirkTimes: [.3, .32, .4, .28], attack: { cells: [26, 27, 28, 29, 30, 31, 32, 33], times: [.09, .08, .30, .05, .15, .07, .08, .12], hit: 4 }, hurt: [34, 35], rise: [36, 37], xGeom: { h: 224, root: 92, foot: 216 } },
+    'base-w-43-uga-nuri': { cells: 38, base: [0, 1], hold: 2.4, fall: [18, 20, 21, 19], quirk: [22, 23, 24, 25], quirkTimes: [.3, .32, .4, .28], attack: { cells: [26, 27, 28, 29, 30, 31, 32, 33], times: [.09, .08, .22, .05, .15, .07, .08, .12], hit: 4 }, hurt: [34, 35], rise: [36, 37], xGeom: { h: 224, root: 92, foot: 216 } },
   },
 } as const
 export const HAEBI_ANIM = {

diff --git a/src/raid/hero-hd.ts b/src/raid/hero-hd.ts
@@ -8,7 +8,6 @@ export const HERO_HD: Readonly<Record<string, string>> = {
   'anim-px/gen-base-w-83-gyeonji-beodeul.png': 'anim-px/gen-base-w-83-gyeonji-beodeul_hd.png',
   'anim-px/gen-base-w-50-siljik-mulga.png': 'anim-px/gen-base-w-50-siljik-mulga_hd.png',
   'anim-px/gen-base-w-45-tamna-oreumbi.png': 'anim-px/gen-base-w-45-tamna-oreumbi_hd.png',
-  'anim-px/gen-base-w-43-uga-nuri.png': 'anim-px/gen-base-w-43-uga-nuri_hd.png',
   'anim-px/gen-aw1-base-w-83-gyeonji-beodeul.png': 'anim-px/gen-aw1-base-w-83-gyeonji-beodeul_hd.png',
   'anim-px/gen-aw1-base-w-72-eumjeup-beol.png': 'anim-px/gen-aw1-base-w-72-eumjeup-beol_hd.png',
   'anim-px/gen-aw1-base-w-56-dongokjeo-sogeum.png': 'anim-px/gen-aw1-base-w-56-dongokjeo-sogeum_hd.png',

diff --git a/docs/realm/production/CLAUDE-HANDOFF-20261124.md b/docs/realm/production/CLAUDE-HANDOFF-20261124.md
@@ -390,3 +390,5 @@
 - **오늘 배운 것**: 주문 글의 「가까운 손」 「그림 오른쪽 손」이 **안내 인형의 팔과 어긋나면 손이 칸마다 바뀐다.** 몸이 3/4 로 돌아선 서기에서 그림 오른쪽 손은 인형의 파란(먼) 팔이다 → **서기를 받은 뒤 인형을 그림에 맞춘다**(`holdf` · `cast_handn` · 새 `wavef` · `hit_nonef`) · 그리고 Codex 가 첫 걷기를 인형대로 안 번갈아 그려 오면 다시 받아도 거의 같다(한 번 다시 받기로는 안 풀림).
 - **GIF · 펼친 판**: `tools/out/lineup/gen-dallae2-flow.gif` · `gen-aryeong-flow.gif` · `gen-base-w-29-golpo-janmul-flow.gif` · `gen-base-w-27-mokji-jinha-flow.gif` (`chk-gen-…-flowframes.png` 직접 봄). 못 본 것: 게임 화면 실제 재생 · 얼굴 8배 전수 · 무기 길이 정밀 화소 측정.
 - **비라 휘두름 다시 받기(L33·L34) 결과**: 「파란 팔 이름 박기」는 **안 먹었다**(Codex 전달 글 · 내 눈 · sonnet 모두 a1·a3 반대 손으로 앞 판과 같음). 앞 → 새: 반대 손 칸 2/8 → 2/8(a1·a3 · a2 는 둘 다 가려 불분명) · 뒷발 왼쪽 끝 앞 -30~-34 → 새 -28~-33(±2.5) · 밧줄 한 줄·길이 둘 다 같음 · 얼굴: 새 a2 에서 올린 팔 소매가 입을 흰 덩어리로 가림 · 옛 b1 은 입이 콧수염처럼 검게 뭉침. 그래서 **a 줄은 옛 판 · b 줄은 새 판**(독립 검수 sonnet 도 b 는 새 판이 낫고 a2 는 옛 판 얼굴이 단정하다고 함)으로 섞어 설치(`out-bira-lassof-a.png` = 옛 `-a-v1` · `-b.png` = 새 `-b-k2`). 새 b1 타격이 뿌리 앞 195px 라 칸 288 에 닿아(잘림) 하네스 줄 `actw=304`(덧띠 폭 5472 ÷ 18). 설치 순서: `bake_all.sh` → `strip install` → `hit-install` → `walk-rows.py --fix bira`(hit-install 이 걷기를 되돌리니 맨 끝). 칸 확대 판 `tools/out/w/bira-old-atk8.png` · `bira-new-atk8.png`.
+- **우가 누리 설치(L35·L36 새 판 · 커밋은 이 줄과 같이)**: 앞(옛) → 새: 휘두름 반대 손 칸 앞 6~7/8 → 새 1~4/8(확실한 왼쪽 a1 · 불분명 a2·a3·b3 · 독립 검수 sonnet) · 뒷발 왼쪽 끝 앞 11px(-23~-34) → 새 **-32~-34(±1)** · 밧줄 길이 앞 칸마다 두 배 차(a3 아주 김) → 새 고름 · 얼굴 새 쪽 흠 없음 · 치마 색은 둘 다 서기((233,173,150))보다 주황 쪽(앞 g 136~168 · 새 g 145~161)으로 약간 짙음(심하지 않음) → **「파란 팔 이름 박기」는 누리에서는 먹었다**(+뒷발 줄). 판정 기준(반대 손 절반 이하 · 뒷발 ±3) 통과해 설치: `bake_all.sh` → `strip install` → `wire-hero.py … actw=288` → `fixatk.py` → `hit-install.py` → `walk-rows.py --fix`. 타격 b1 뿌리 앞 183px(288 칸 안). 옛 2배 그림 연결(`hero-hd.ts` 의 gen-base-w-43-uga-nuri_hd)은 wire-hero 가 뺌. 칸 확대 판 `tools/out/w/nuri-old-atk8.png` · `nuri-new-atk8.png`.
+- **「파란 팔 이름 박기가 먹혔는가」 판정**: 비라는 안 먹음(a1·a3 반대 손 그대로 · 앞 2/8 → 새 2/8) · 누리는 먹음(앞 6~7/8 → 새 1~4/8 + 뒷발 11px → ±1). 같은 문안인데 다른 까닭은 비라의 a1·a3(뒤 아래로 풀어 내림 · 힘 모음)에서 인형의 먼 손이 몸통 뒤로 가려지는 칸이 남아서이고 누리 새 판은 a2~a4 에서 팔이 머리 위로 올라 앞쪽(오른쪽)에 보이게 그려졌다. 여전히 반대 손이 남는 칸(비라 a1·a3 · 누리 a1)에는 ①(`figure()` 에 `turn` — 몸을 돌려 먼 팔을 앞에 · 다섯 군데 손질) 쪽을 권한다: ②(밧줄 코드로 그리기)는 칸 20 마다 새 그리기 코드·빈 주먹 지시가 필요한 큰 일이고, 남은 흠은 칸 1~2개뿐이라 ①이 값이 싸다.
